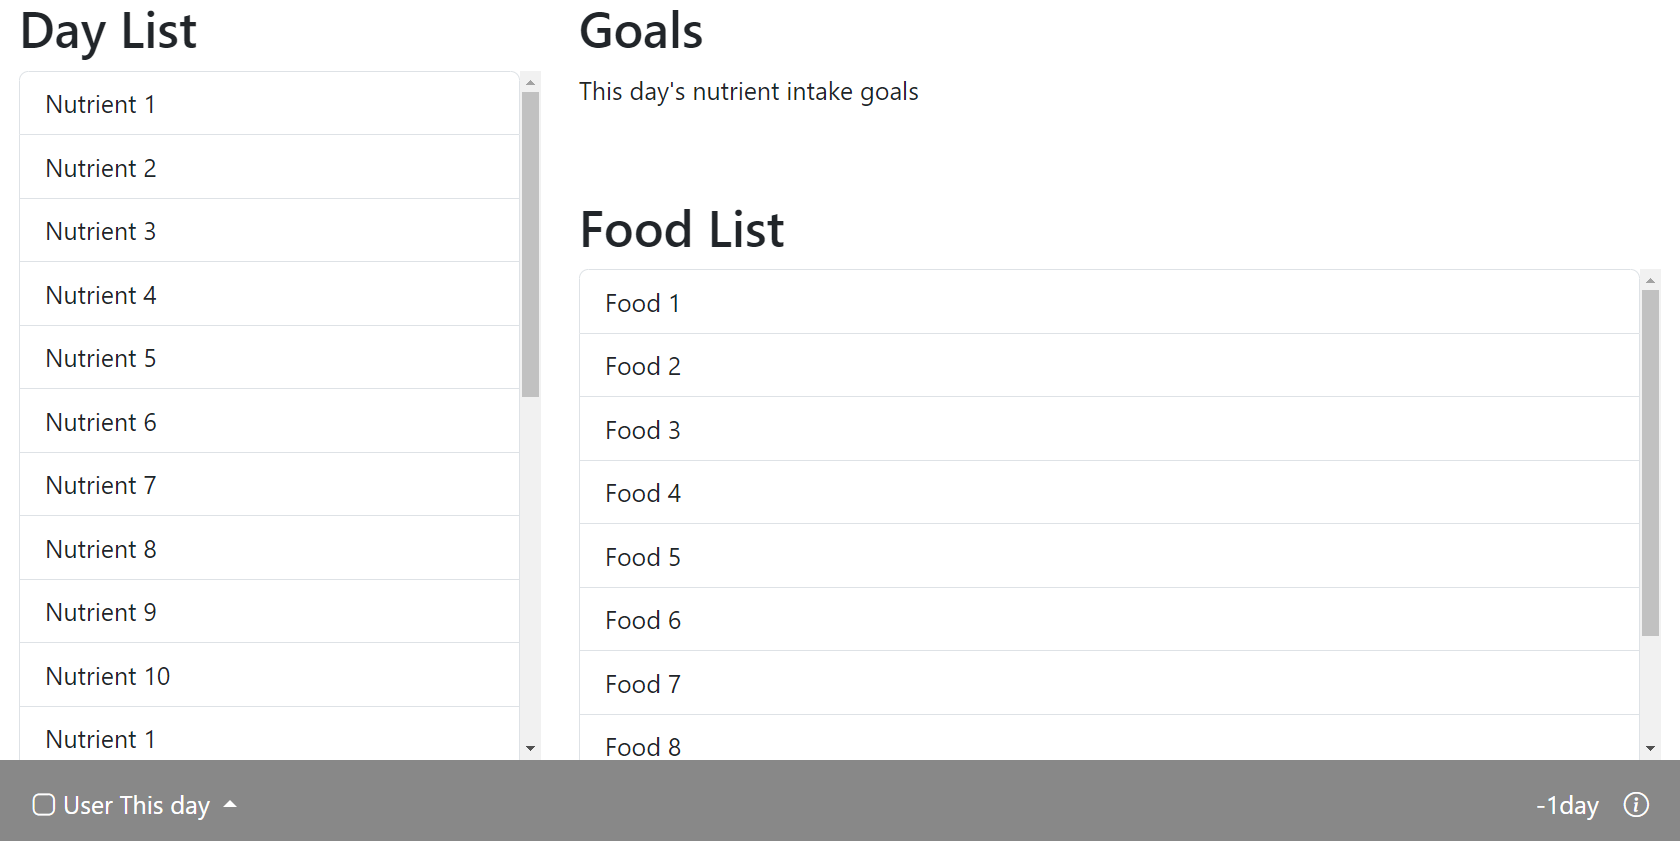
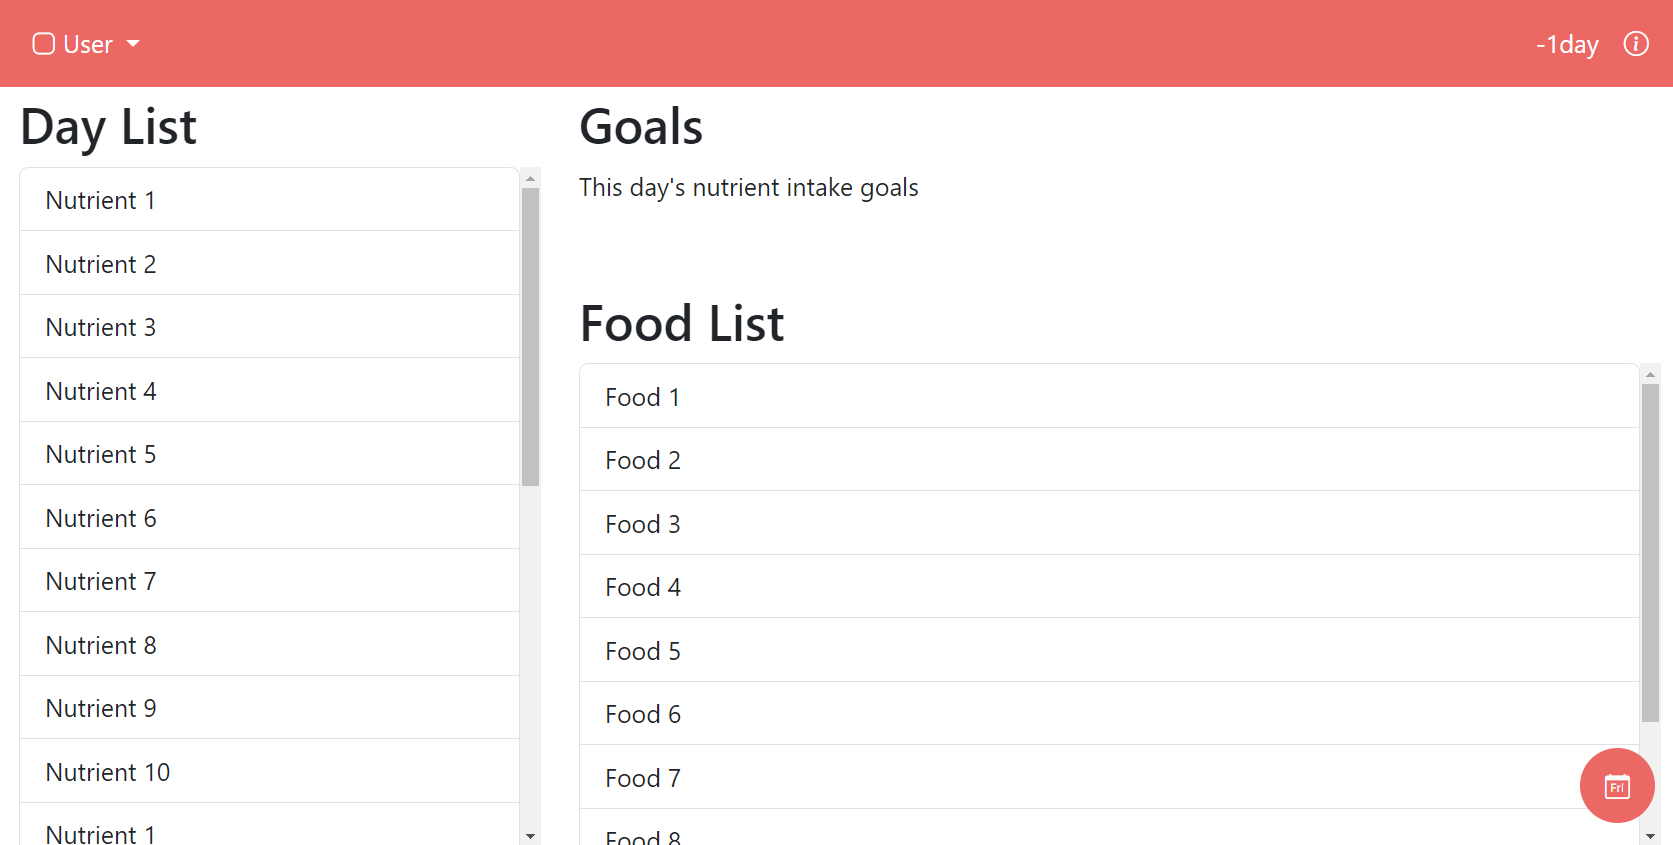
Updated readme

Changed region(s): [[0.0, 0.0, 1.0, 1.0]]

diff --git a/designs/layout_menu/merged.html b/designs/layout_menu/merged.html
@@ -14,7 +14,7 @@ from page sample
 </head>
 <body class="d-flex flex-column h-100">  <!-- from content sample -->
 
-  <nav class="navbar fixed-top navbar-expand" style="background-color: #888 !important;">  <!-- TASK: or sticky-top -->
+  <nav class="navbar fixed-top navbar-expand" style="background-color: #eb6864 !important;">  <!-- TASK: or sticky-top -->
     <div class="container-fluid">                 <!-- alternative: https://getbootstrap.com/docs/5.3/components/navbar/#offcanvas -->
       <ul class="navbar-nav w-100 mb-2 mb-lg-0">  <!-- w-100 for the ms-suto below -->
         <li class="nav-item dropdown">
